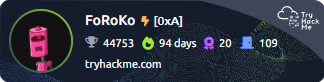
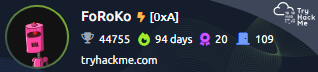
More testing

diff --git a/index.js b/index.js
@@ -1,43 +1,69 @@
-
 const puppeteer = require('puppeteer');
 const simpleGit = require('simple-git');
 const path = require('path');
 const fs = require('fs');
+const { exec } = require('child_process');
+
+// Ustawienie ścieżki do pliku logu
+const logFile = '/home/TryHackMeBadgeUpdate/log.txt';
+
+// Zapisz datę uruchomienia skryptu do logów
+fs.appendFileSync(logFile, `Skrypt uruchomiony: ${new Date()}\n`);
+
+// Funkcja do załadowania klucza SSH
+function loadSSHKey() {
+  return new Promise((resolve, reject) => {
+    exec('eval $(ssh-agent -s) && ssh-add /root/.ssh/test', (error, stdout, stderr) => {
+      if (error) {
+        reject(`Błąd podczas ładowania klucza SSH: ${stderr || error}`);
+      } else {
+        resolve(stdout);
+      }
+    });
+  });
+}
 
 (async () => {
   const url = 'https://tryhackme.com/api/v2/badges/public-profile?userPublicId=3195715';
   const outputPath = 'thmBadge.png';
-  const repoPath = `/home/FoRoKo1o`;
+  const repoPath = '/home/FoRoKo1o';
   const commitMessage = 'Automatyczny commit: Zaktualizowano screenshot';
 
- console.log(`test`);
   try {
+    // Załaduj klucz SSH przed rozpoczęciem operacji Gita
+    console.log('Ładowanie klucza SSH...');
+    await loadSSHKey();
+    console.log('Klucz SSH załadowany.');
+
     // Uruchom Puppeteer
     const browser = await puppeteer.launch({
       headless: true,
       executablePath: '/usr/bin/chromium-browser',
       args: ['--no-sandbox', '--disable-setuid-sandbox', '--disable-gpu', '--disable-software-rasterizer'],
-//      dumpio: true,
     });
 
     const page = await browser.newPage();
     console.log(`Otwieram stronę: ${url}`);
-    await page.goto(url, { waitUntil: 'networkidle2' });
+    await page.goto(url, { waitUntil: 'networkidle2', timeout: 60000 });
 
     // Zapisz zrzut ekranu
     await page.screenshot({
       path: outputPath,
       clip: {
-        x: 1,
-        y: 1,
-        width: 324,
-        height: 82,
+        x: 5,
+        y: 5,
+        width: 318,
+        height: 72,
       },
     });
     console.log(`Screenshot zapisany jako ${outputPath}`);
 
     await browser.close();
 
+    process.env.GIT_SSH_COMMAND = '/usr/bin/ssh -i /root/.ssh/test';
+    process.env.PATH = '/usr/bin:/bin:/usr/sbin:/sbin:/usr/local/bin';
+
+    // Skopiuj plik do repozytorium
     const destinationPath = path.join(repoPath, 'thmBadge.png');
     fs.copyFileSync(outputPath, destinationPath);
     console.log(`Zrzut ekranu skopiowany do repozytorium: ${destinationPath}`);
@@ -55,7 +81,9 @@ const fs = require('fs');
 
     // Wykonaj push
     console.log('Wykonywanie pusha...');
-    await git.push();
+
+    //await git.push();
+    await git.push('origin', 'main', { '--verbose': true });
 
     console.log('Push zakończony sukcesem!');
 
